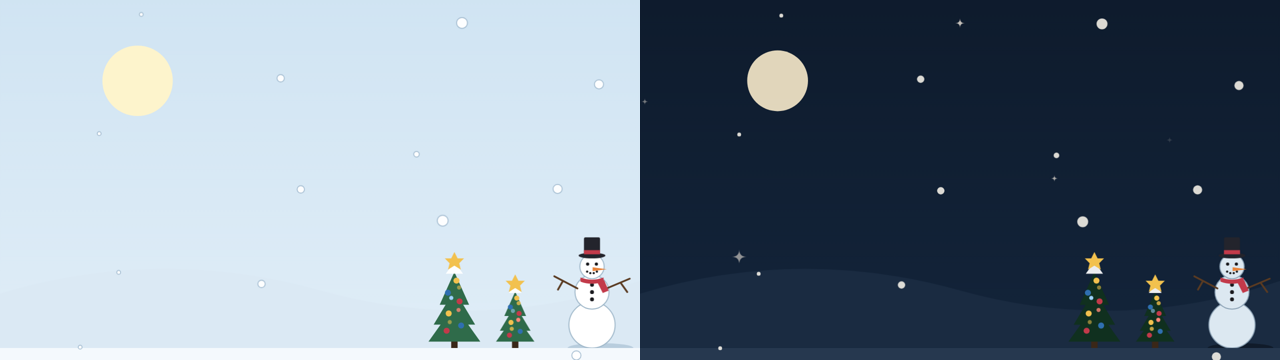
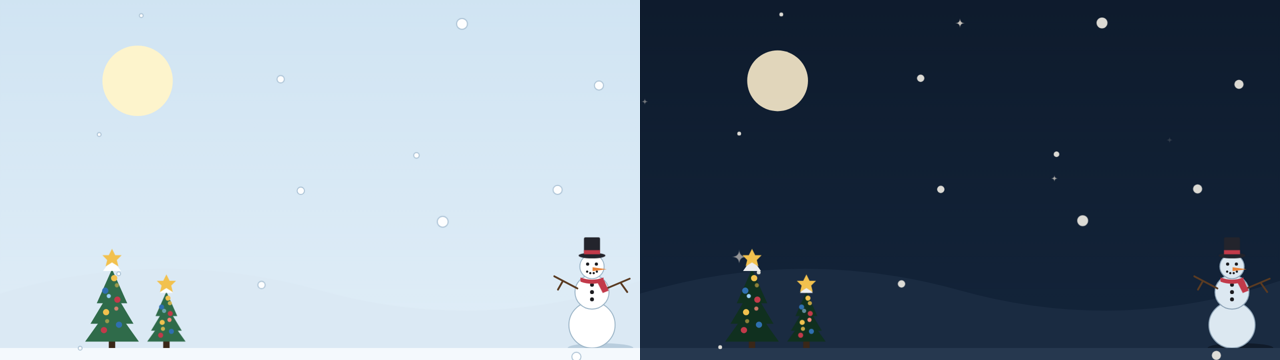
snowman-theme 0.1.7: the decorated trees move under the moon, on the left
Claude-Session: https://claude.ai/code/session_019US2gsjfkmf3Eo2ufavub8

diff --git a/plugins/snowman-theme/hooks/register.tsx b/plugins/snowman-theme/hooks/register.tsx
@@ -163,8 +163,8 @@ const SCENE = [
   `<g class="night">${STARS}<circle cx="86" cy="338" r="19" fill="#f3e6c8" opacity=".92"/></g>`,
   '<circle class="day" cx="86" cy="338" r="22" fill="#fff4c9" opacity=".95"/>',
   `<path class="hill" d="M0 ${G - 34} Q100 ${G - 64} 200 ${G - 36} T400 ${G - 42} L400 ${G} L0 ${G} Z"/>`,
-  fir(284, 54, 0),
-  fir(322, 40, 1),
+  fir(70, 56, 0),
+  fir(104, 40, 1),
   snowman(370, 0.76, true, '#c23a4a', 0),
   '<rect class="gnd" x="0" y="' + G + '" width="400" height="295"/>',
   FLAKES,
